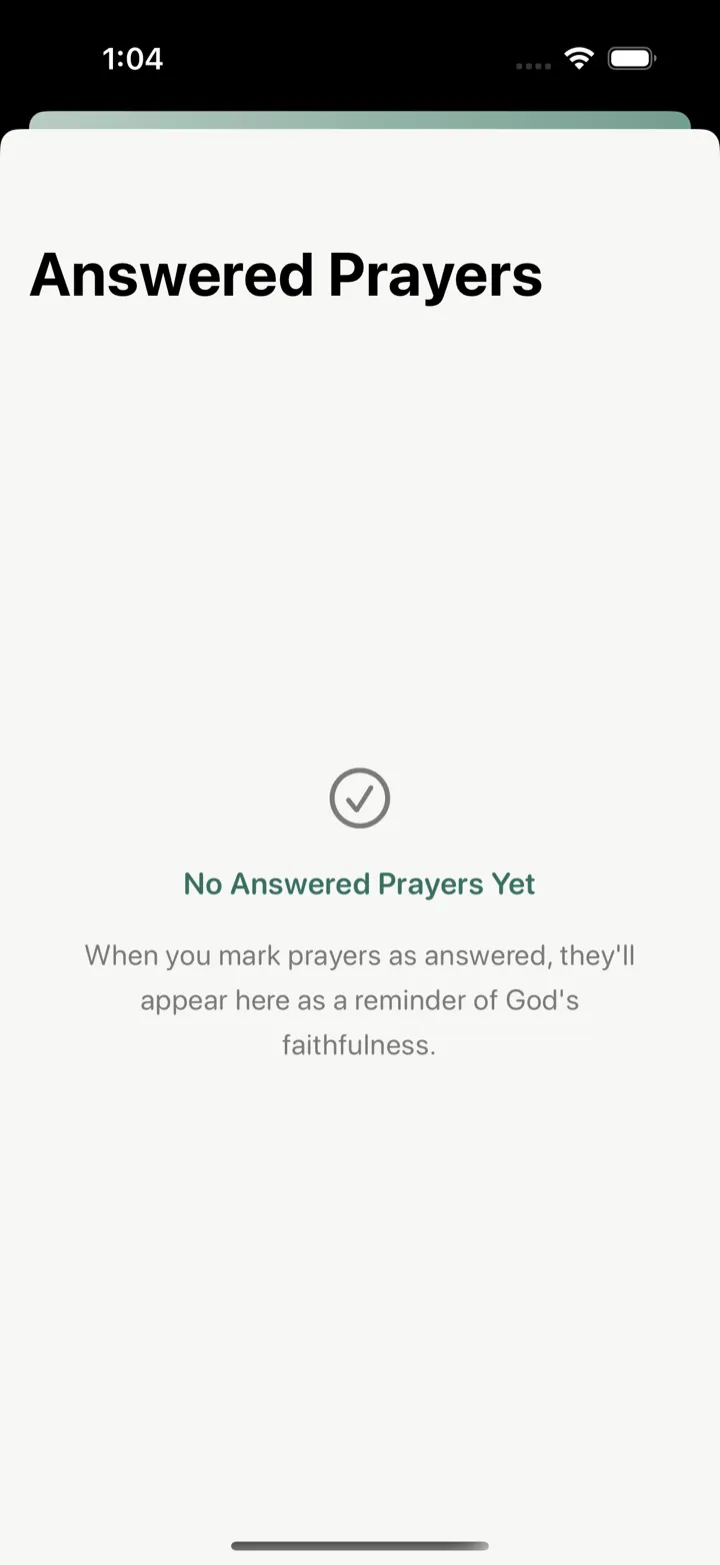
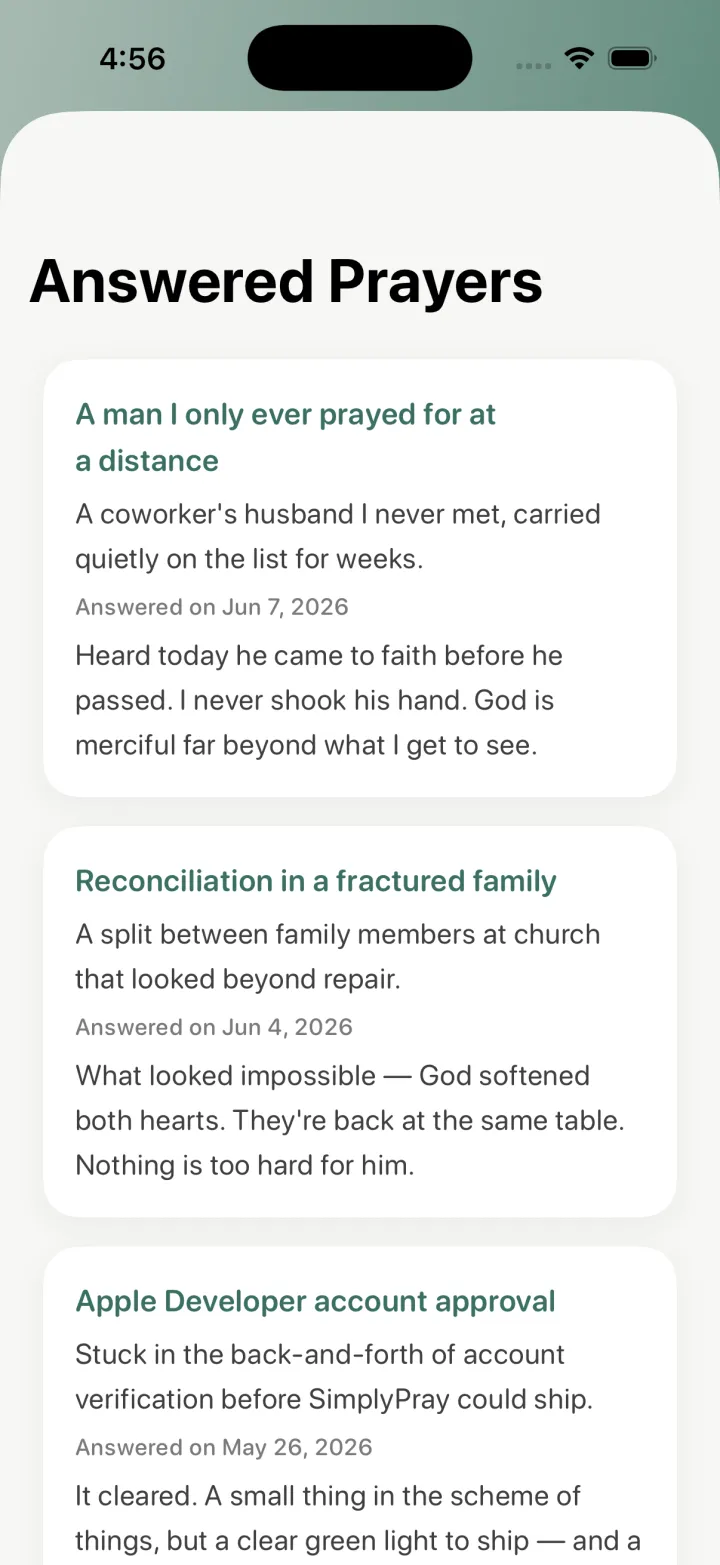
fix(landing): repair distorted app screenshots + overlapping hero chips (#14)
* fix(landing): stop "Inside the app" screenshots rendering giant & cropped

The three showcase phone mockups (.shot-frame img) rendered enormously
zoomed and cropped on the live site — captions like "Answered Prayers"
and "Continue to Confession" were sliced off mid-word, with the images
scaled to a tall, narrow sliver.

Root cause: the <img> tags carry width/height attributes (720x1565),
which act as a presentational height hint. With `width:100%` also making
width explicit and no `height:auto`, the box height was pinned to 1565px,
so the CSS `aspect-ratio:1206/2622` was ignored. object-fit:cover then
zoomed the screenshot to fill the 230x1565 sliver, cropping the sides.

Fix: add `display:block; height:auto;` to `.shot-frame img` so the
declared aspect-ratio governs the box (renders ~230x500). The hero phone
was unaffected because `.phone-screen` owns the aspect-ratio and its img
uses height:100%.

The image files themselves were always valid — this is purely a CSS
rendering fix; no screenshots were regenerated.

* fix(landing): stop hero callout chips covering the phone screen

The two floating hero callouts (.chip-right "Scripture-grounded" and
.chip-left "Nothing falls through") overlapped well into the phone
mockup, covering the screen content and reading as broken.

Cause: `.chip { white-space: nowrap }` let .chip-right grow to ~255px
wide. Anchored to the right hero column (right:-36px), that pushed it
~117px into the phone screen.
[…]

diff --git a/index.html b/index.html
@@ -235,7 +235,8 @@
       padding: 11px 15px;
       box-shadow: var(--shadow-sm);
       display: flex; align-items: center; gap: 10px;
-      white-space: nowrap; font-size: 13px; z-index: 3;
+      white-space: normal; font-size: 13px; z-index: 3;
+      max-width: 200px;
     }
     .chip-icon {
       width: 34px; height: 34px; border-radius: 10px;
@@ -244,9 +245,10 @@
     }
     .chip-label { font-weight: 600; color: var(--ink); line-height: 1.2; }
     .chip-sub { font-size: 11px; color: var(--ink-soft); }
-    .chip-right { right: -36px; top: 22%; background: white; }
+    .chip-right { right: -52px; top: 9%; max-width: 208px; background: white; }
+    .chip-right .chip-label { white-space: nowrap; }
     .chip-left {
-      left: -70px; bottom: 22%;
+      left: -44px; bottom: 17%; max-width: 188px;
       background: var(--green-deep); color: white;
     }
     .chip-left .chip-label { color: white; }
@@ -340,7 +342,7 @@
       box-shadow: var(--shadow-md); margin: 0 auto 18px;
       max-width: 248px;
     }
-    .shot-frame img { width: 100%; border-radius: 26px; aspect-ratio: 1206 / 2622; object-fit: cover; background:#000; }
+    .shot-frame img { display: block; width: 100%; height: auto; border-radius: 26px; aspect-ratio: 1206 / 2622; object-fit: cover; background:#000; }
     .shot h3 { font-size: 17px; font-weight: 600; color: var(--ink); margin-bottom: 6px; }
     .shot p { font-size: 14px; color: var(--ink-soft); line-height: 1.6; font-weight: 300; max-width: 280px; margin: 0 auto; }
 
